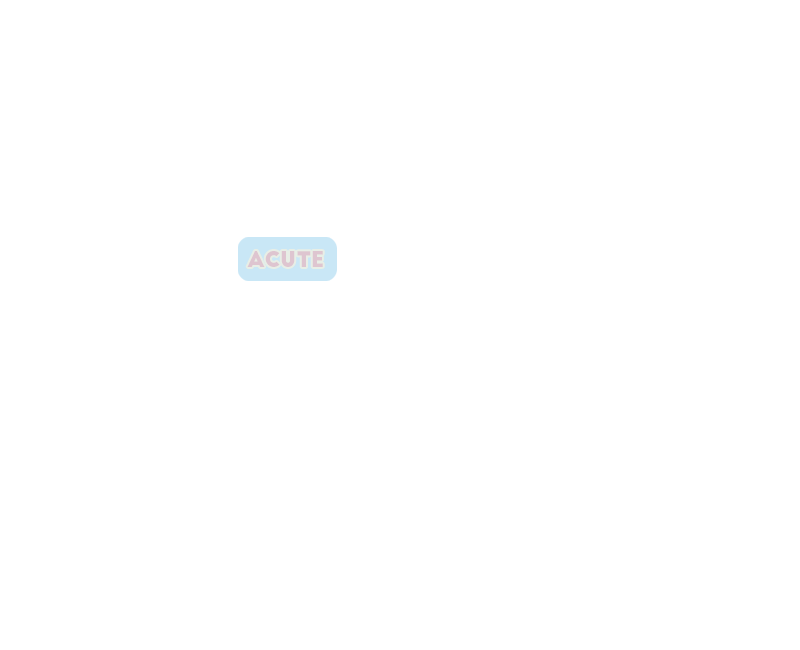
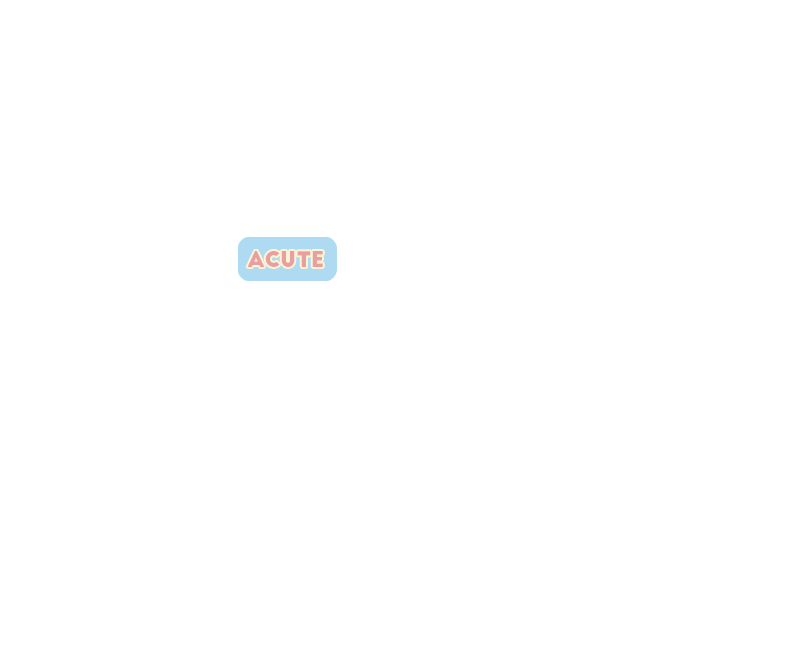
bonus question now appears and disappears after collision

Changed region(s): [[0.2812, 0.3385, 0.4375, 0.4308]]

diff --git a/alien.js b/alien.js
@@ -320,9 +320,9 @@ function easyListener(button, buttonHover, buttonHoverOnClick){
  * Add listeners to objects.
  */
 function initListeners() {
-    easyListener(acuteButton, acuteButtonHover, checkBonus());
-    easyListener(rightButton, rightButtonHover, checkBonus());
-    easyListener(obtuseButton, obtuseButtonHover, checkBonus());
+    easyListener(acuteButton, acuteButtonHover, checkBonus);
+    easyListener(rightButton, rightButtonHover, checkBonus);
+    easyListener(obtuseButton, obtuseButtonHover, checkBonus);
 
     //fire button attributes
     fireButton.on("mouseover", function () {
@@ -550,10 +550,20 @@ function newGame() {
 }
 
 function bonusQuestion(){
-    stage.addChildAt(angleType, 1);
+    stage.addChildAt(angleType, 2);
+    stage.addChildAt(acuteButton, 3);
+    stage.addChildAt(rightButton, 3);
+    stage.addChildAt(obtuseButton, 3);
+
+    // acuteButton.visible = rightButton.visible = obtuseButton.visible = true;
     setTimeout(function () {
         stage.removeChild(angleType);
-    }, 1750);
+        stage.removeChild(acuteButton);
+        stage.removeChild(rightButton);
+        stage.removeChild(obtuseButton);
+        // acuteButton.visible = rightButton.visible = obtuseButton.visible = false;
+
+    }, 2500);
     // resetRocketPosition();
     //check to insure the user does not go in to the negative points
     // if (score > 0) {
